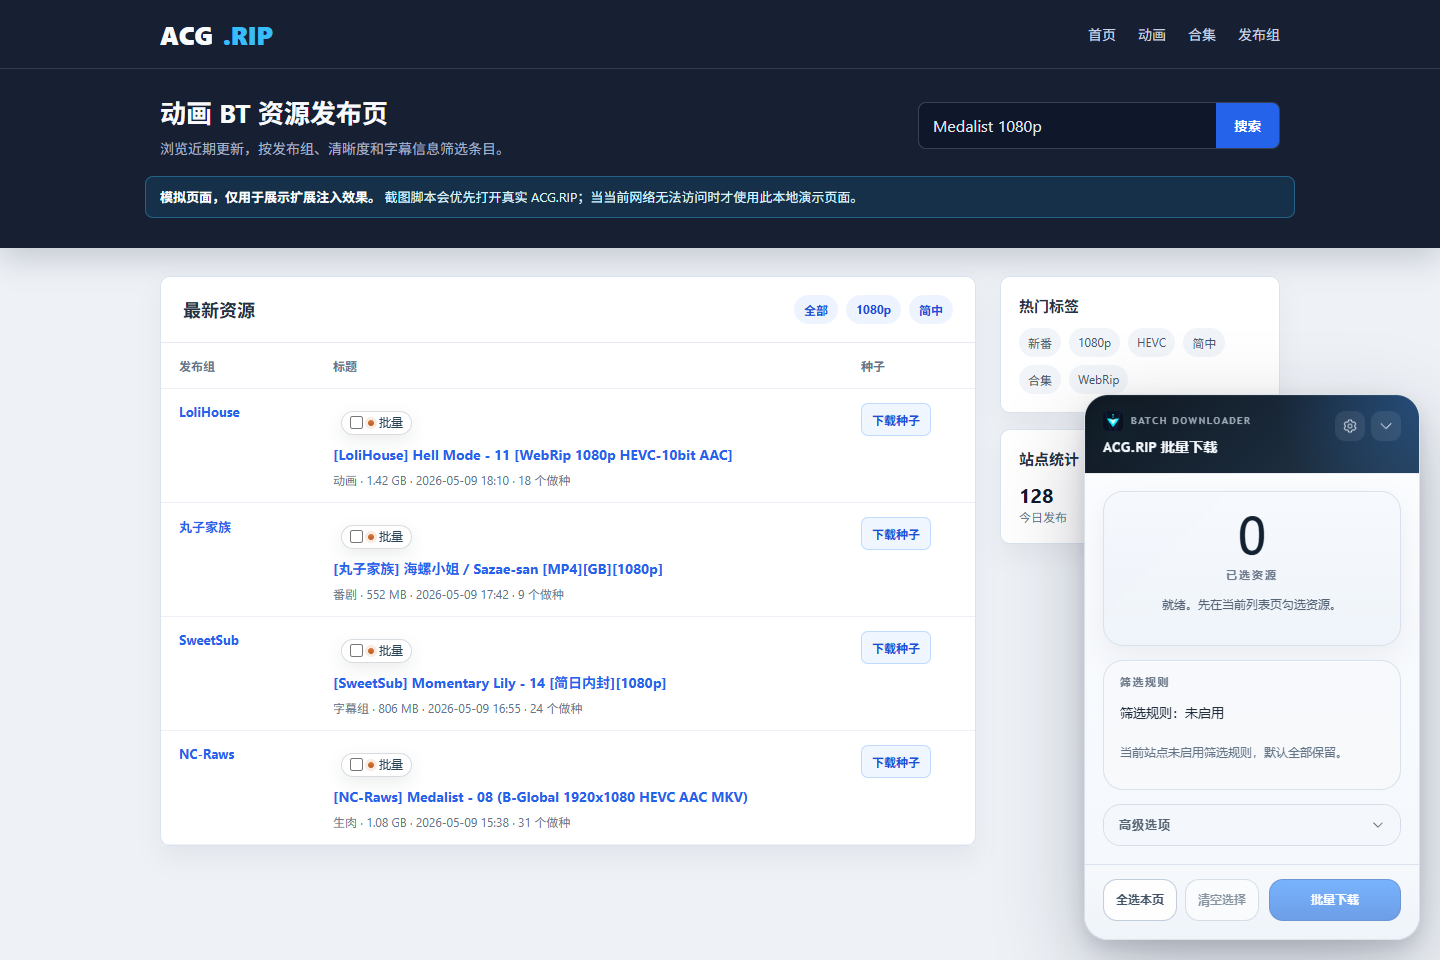
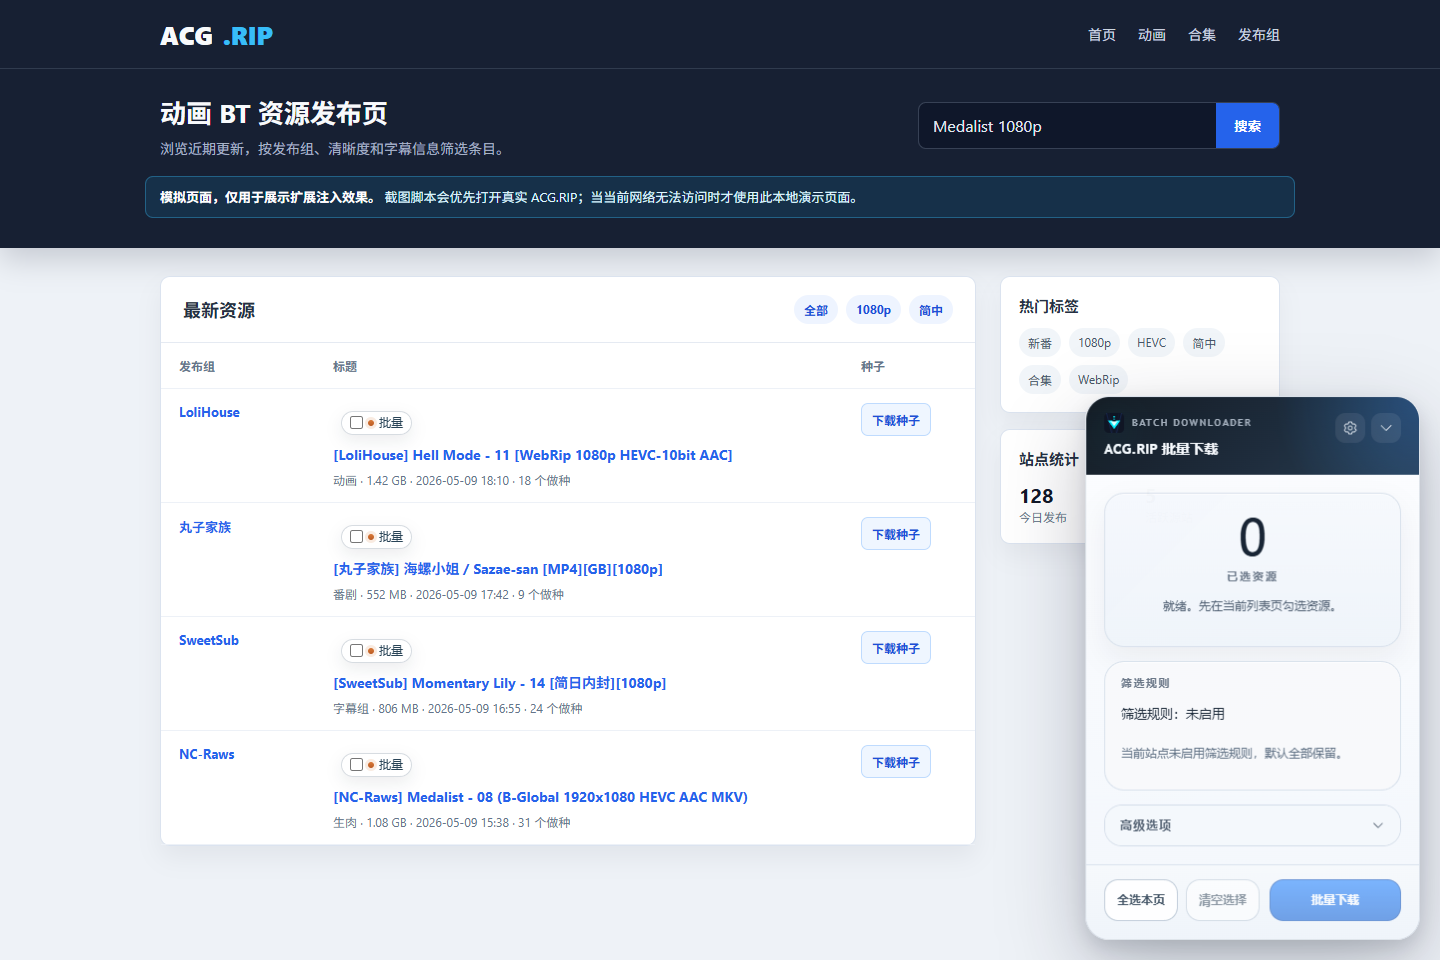
chore: release 2.2.1

diff --git a/CHANGELOG.md b/CHANGELOG.md
@@ -2,6 +2,12 @@
 
 All notable release changes for `Anime BT Batch Downloader` are tracked here. GitHub Release pages should reuse the matching version section from this file.
 
+## 2.2.1
+
+### Features
+
+- Added generated product screenshots to the English and Chinese README files, plus a reusable screenshot capture command and metadata coverage for the release documentation workflow. (`90ca5ed`)
+
 ## 2.2.0
 
 ### Features
